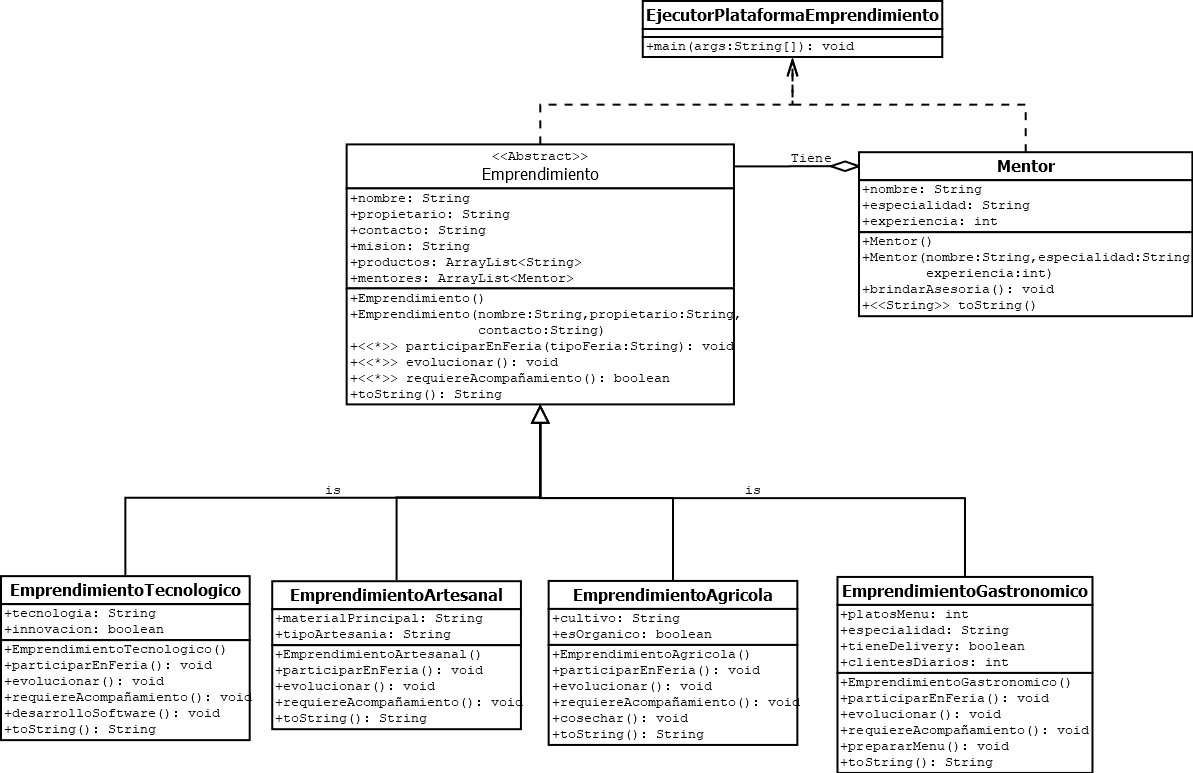
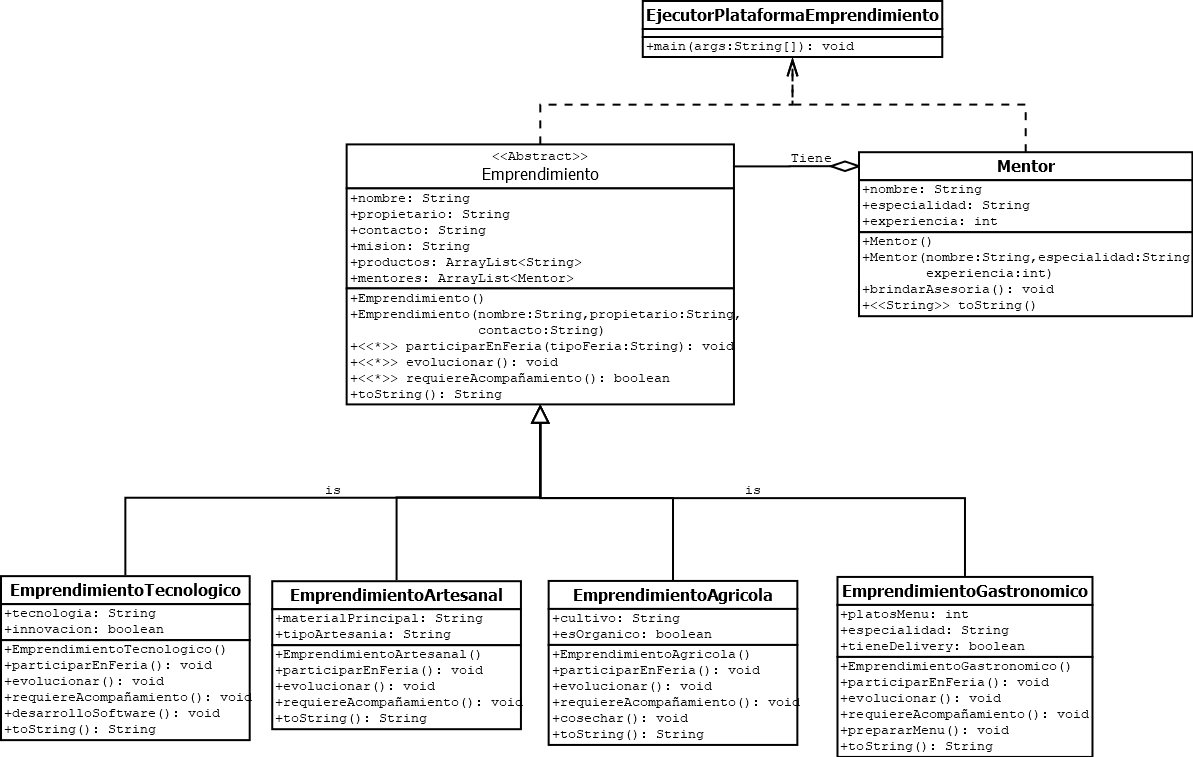
Taller 8

diff --git a/Solucion_Codigo/Taller8-ProyectoPolimorfismo/src/Problema5_PlataformaEmprendimiento.java b/Solucion_Codigo/Taller8-ProyectoPolimorfismo/src/Problema5_PlataformaEmprendimiento.java
@@ -2,14 +2,14 @@ import java.util.ArrayList;
 
 public class Problema5_PlataformaEmprendimiento {
     public static void main(String[] args) {
-        EmprendimientoTecnologico tech = new EmprendimientoTecnologico("TecLoja",
+        EmprendimientoTecnologico tech = new EmprendimientoTecnologico("TecLoja", 
                 "Carlos Perez", "carlos@mail.com", "Innovar Loja con tecnologia", "IA avanzada", true);
         tech.productos.add("App de comercio local");
         tech.productos.add("Sistema de inventario");
         tech.mentores.add(new Mentor("Ana Torres", "Desarrollo de Software", 5));
 
-        EmprendimientoGastronomico food = new EmprendimientoGastronomico("Sabores Lojanos", 
-                "Mariana Rios", "mariana@mail.com", "Difundir gastronomia local", 10, "Comida tradicional", true, 150);
+        EmprendimientoGastronomico food = new EmprendimientoGastronomico("Sabores Lojanos",
+                "Mariana Rios", "mariana@mail.com", "Difundir gastronomia local", 10, "Comida tradicional", true);
         food.productos.add("Tamales Lojanos");
         food.productos.add("Repe Lojano");
         
@@ -182,14 +182,12 @@ class EmprendimientoGastronomico extends Emprendimiento {
     public int platosMenu;
     public String especialidad;
     public boolean tieneDelivery;
-    public int clientesDiarios;
 
-    public EmprendimientoGastronomico(String nombre, String propietario, String contacto, String mision, int platosMenu, String especialidad, boolean tieneDelivery, int clientesDiarios) {
+    public EmprendimientoGastronomico(String nombre, String propietario, String contacto, String mision, int platosMenu, String especialidad, boolean tieneDelivery) {
         super(nombre, propietario, contacto, mision);
         this.platosMenu = platosMenu;
         this.especialidad = especialidad;
         this.tieneDelivery = tieneDelivery;
-        this.clientesDiarios = clientesDiarios;
     }
 
     @Override
@@ -200,20 +198,20 @@ class EmprendimientoGastronomico extends Emprendimiento {
     @Override
     public void evolucionar() {
         this.prepararMenu();
-        this.clientesDiarios += 50;
     }
 
     public void prepararMenu() {
         this.productos.add("Nuevo plato: " + this.especialidad + " gourmet");
+        this.platosMenu++;
     }
 
     @Override
     public boolean requiereAcompanamiento() {
-        return clientesDiarios < 100;
+        return this.platosMenu < 15;
     }
 
     public String toString() {
         return super.toString() + "\nTipo: Gastronomico | Especialidad: " + especialidad +
-               " | Delivery: " + tieneDelivery + " | Clientes/dia: " + clientesDiarios;
+               " | Delivery: " + tieneDelivery;
     }
 }
